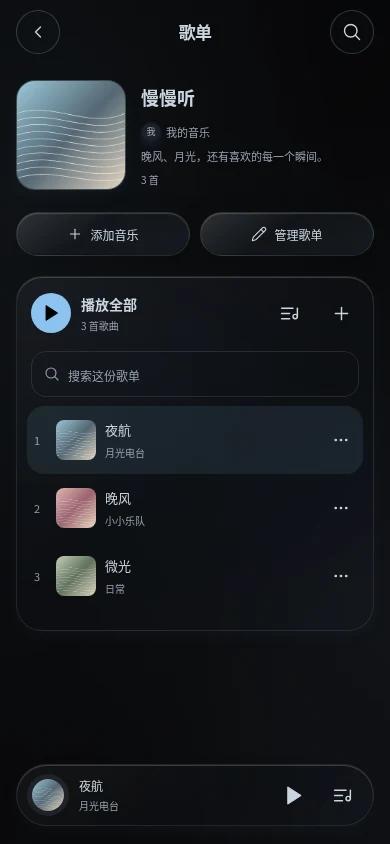
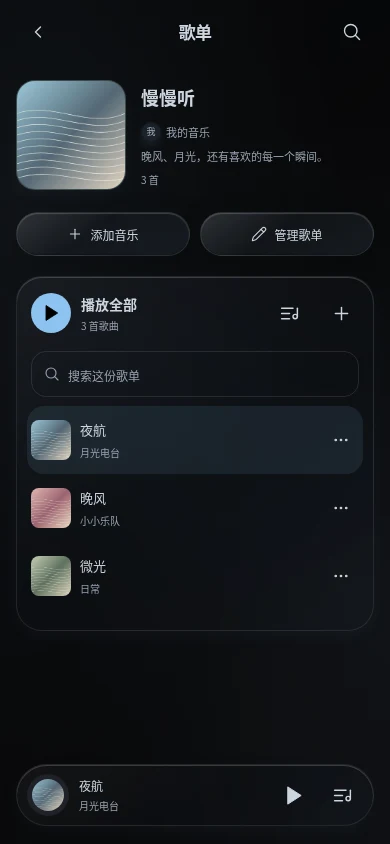
Polish music header transitions and simplify song list labels

Changed region(s): [[0.0615, 0.4929, 0.3692, 0.7085]]

diff --git a/src/apps/music/style.css b/src/apps/music/style.css
@@ -3,14 +3,14 @@
 .music-app:has([data-music-screen=player]){padding-bottom:18px}
 .music-app,.music-sheet{--music-fill:color-mix(in srgb,rgb(var(--glass-tint) / calc(.18 * var(--glass-soften))),rgb(var(--glass-tint)) calc(var(--glass-solid) * 100%));--music-vinyl:#202127}
 .music-header{display:flex;align-items:center;justify-content:space-between;gap:12px;min-height:64px;padding:calc(8px + env(safe-area-inset-top)) 0 8px}
-.music-header h1{font:550 17px/1.3 var(--font-ui);text-align:center;min-width:0}.music-header>button{display:grid;place-items:center;width:44px;height:44px;flex-shrink:0;border-radius:50%;border:1px solid var(--line);background:var(--music-fill);backdrop-filter:blur(var(--glass-blur));-webkit-backdrop-filter:blur(var(--glass-blur))}.music-header svg{width:20px;height:20px}
+.music-header h1{font:550 17px/1.3 var(--font-ui);text-align:center;min-width:0}.music-header>button{display:grid;place-items:center;width:44px;height:44px;flex-shrink:0;border-radius:12px;border:0;background:none;box-shadow:none}.music-header svg{width:20px;height:20px}.music-back svg{transform:rotate(0deg);transition:transform 280ms cubic-bezier(.22,.7,.2,1);transform-origin:center}.music-back.is-player svg{transform:rotate(-90deg)}
 .music-together{padding:18px 18px 16px;text-align:center}
 .music-together-label{display:flex;align-items:center;justify-content:center;gap:7px;font-size:11px;letter-spacing:.12em;color:var(--muted)}.music-together-label svg{width:15px;height:15px}
 .music-companions{display:flex;justify-content:center;align-items:center;gap:24px;margin:17px 0 14px}.music-companions .avatar{width:56px;height:56px;border-width:1px}.music-companions .avatar>span{font-size:22px}
 .music-equalizer{display:flex;align-items:center;gap:4px;height:30px;min-width:40px}.music-equalizer i{display:block;width:3px;height:var(--bar-height);background:var(--accent);border-radius:3px;transform:scaleY(.6)}.music-equalizer.is-playing i{animation:music-equalizer 900ms ease-in-out infinite alternate}.music-equalizer i:nth-child(2n){animation-delay:-.4s}.music-equalizer i:nth-child(3n){animation-delay:-.7s}
 .music-together-song{display:flex;flex-direction:column;align-items:center;justify-content:center;gap:6px;min-height:54px;width:100%;padding:4px;border-radius:16px}.music-together-song strong{font-size:15px;font-weight:500;line-height:1.6;overflow-wrap:anywhere}.music-together-song>span{font-size:11px;line-height:1.6;color:var(--muted)}
 .music-import-link{display:inline-flex;align-items:center;gap:5px;min-height:44px;padding:0 10px;border-radius:16px;font-size:11px;color:var(--muted)}.music-import-link svg{width:14px;height:14px}.music-together-progress{height:2px;margin-top:8px;border-radius:2px;background:rgb(var(--tint) / .18);overflow:hidden}.music-together-progress>span{display:block;height:100%;background:var(--accent)}
-.music-section-heading{display:flex;align-items:center;gap:10px;margin:16px 4px 10px;min-height:44px}.music-section-heading h2{font:500 26px/1.2 var(--font-en);margin-right:auto}.music-section-heading>span{font-size:11px;color:var(--muted)}.music-section-heading>button{width:44px;height:44px;display:grid;place-items:center;border-radius:14px}
+.music-section-heading{display:flex;align-items:center;gap:10px;margin:16px 4px 10px;min-height:44px}.music-section-heading h2{font:500 26px/1.2 var(--font-en);margin-right:auto}.music-section-heading>button{width:44px;height:44px;display:grid;place-items:center;border-radius:14px}
 .music-playlist-grid{display:grid;grid-template-columns:repeat(2,minmax(0,1fr));gap:18px 14px}.music-playlist-card{min-width:0}.music-cover-wrap{position:relative}.music-cover-hit{display:block;padding:0;width:100%;border-radius:22px}.music-app .music-cover-art.app-panel{display:grid;place-items:center;width:100%;aspect-ratio:1;border-radius:22px;overflow:hidden;background:color-mix(in srgb,color-mix(in srgb,var(--cover-tint) 76%,var(--solid)) calc(72% * var(--glass-soften)),rgb(var(--glass-tint)) calc(var(--glass-solid) * 100%));box-shadow:inset 0 1px 0 rgb(255 255 255 / .3),0 5px 16px rgb(0 0 0 / .025)}
 .music-cover-art img,.music-detail-cover img,.music-song-cover img,.music-edit-cover img{width:100%;height:100%;object-fit:cover}.music-art-placeholder{width:100%;height:100%;display:grid;place-items:center}.music-art-placeholder svg{width:30%;height:30%;color:var(--ink)}
 .music-cover-play{position:absolute;bottom:7px;right:7px;display:grid;place-items:center;width:44px;height:44px;border-radius:14px;color:var(--ink)}.music-cover-play svg{width:27px;height:27px;fill:currentColor;stroke-width:1}.music-playlist-card.has-cover .music-cover-play{color:white;filter:drop-shadow(0 1px 3px rgb(0 0 0 / .4))}
@@ -24,7 +24,7 @@
 .music-list-actions{display:flex;gap:10px;margin-bottom:20px}.music-list-actions>button{display:flex;align-items:center;justify-content:center;gap:7px;min-height:44px;padding:8px 16px;border-radius:24px;font-size:12px;flex:1}.music-list-actions svg{width:16px;height:16px}
 .music-app .music-song-panel.app-panel{padding:12px 10px 20px;border-radius:26px}.music-list-toolbar{display:flex;align-items:center;justify-content:space-between;gap:8px}.music-list-toolbar>button{display:flex;align-items:center;justify-content:center;min-width:44px;min-height:44px;flex-shrink:0;border-radius:20px}.music-list-toolbar .music-play-all{gap:10px;justify-content:flex-start;margin-right:auto;padding:4px}.music-play-all>span:first-child{width:40px;height:40px;display:grid;place-items:center;background:var(--accent);color:var(--accent-ink);border-radius:50%}.music-play-all svg{width:20px;height:20px;fill:currentColor;stroke-width:1}.music-play-all>span:last-child{display:flex;flex-direction:column;align-items:flex-start;gap:4px}.music-play-all strong{font-size:14px;font-weight:550}.music-play-all small{font-size:10px;color:var(--muted)}
 .music-search{display:flex;align-items:center;gap:8px;margin:14px 4px 9px;padding:0 12px;border:1px solid var(--hairline);border-radius:15px}.music-search>svg{width:16px;height:16px;color:var(--muted)}.music-search input{border:0;background:none;min-width:0;width:100%;min-height:44px;font:16px/1.4 var(--font-ui);padding:8px 0}.music-search input::placeholder{color:var(--muted);font-size:12px}.music-search:focus-within{outline:1px solid var(--accent);outline-offset:2px}.music-search input:focus-visible{outline:none}
-.music-song-row{display:flex;align-items:center;min-height:68px;min-width:0;border-radius:17px}.music-song-row.is-current{background:rgb(var(--tint) / .1)}.music-song-main{display:flex;align-items:center;gap:9px;text-align:left;min-height:64px;flex:1;min-width:0;padding:6px 0;border-radius:16px}.music-song-number{display:grid;place-items:center;width:20px;flex-shrink:0;font-size:11px;color:var(--muted);font-variant-numeric:lining-nums tabular-nums}.music-song-number svg{width:15px;height:15px}.music-song-cover{width:40px;height:40px;overflow:hidden;border-radius:8px;flex-shrink:0;background:rgb(var(--tint) / .15)}.music-song-cover .music-art-placeholder svg{width:19px;height:19px}.music-song-text{display:flex;flex-direction:column;gap:5px;min-width:0}.music-song-text strong{font-size:13px;font-weight:500;line-height:1.5;white-space:nowrap;overflow:hidden;text-overflow:ellipsis}.music-song-text small{font-size:10px;line-height:1.5;color:var(--muted);white-space:nowrap;overflow:hidden;text-overflow:ellipsis}.music-song-row>button:last-child{display:grid;place-items:center;width:44px;height:44px;flex-shrink:0;border-radius:15px}.music-song-row>button:last-child svg{width:18px;height:18px}
+.music-song-row{display:flex;align-items:center;min-height:68px;min-width:0;border-radius:17px}.music-song-row.is-current{background:rgb(var(--tint) / .1)}.music-song-main{display:flex;align-items:center;gap:9px;text-align:left;min-height:64px;flex:1;min-width:0;padding:6px 4px;border-radius:16px}.music-song-cover{width:40px;height:40px;overflow:hidden;border-radius:8px;flex-shrink:0;background:rgb(var(--tint) / .15)}.music-song-cover .music-art-placeholder svg{width:19px;height:19px}.music-song-text{display:flex;flex-direction:column;gap:5px;min-width:0}.music-song-text strong{font-size:13px;font-weight:500;line-height:1.5;white-space:nowrap;overflow:hidden;text-overflow:ellipsis}.music-song-text small{font-size:10px;line-height:1.5;color:var(--muted);white-space:nowrap;overflow:hidden;text-overflow:ellipsis}.music-song-row>button:last-child{display:grid;place-items:center;width:44px;height:44px;flex-shrink:0;border-radius:15px}.music-song-row>button:last-child svg{width:18px;height:18px}
 .music-list-empty{text-align:center;padding:32px 10px 24px}.music-list-empty>svg{width:28px;height:28px;color:var(--muted);margin-bottom:14px}.music-list-empty h3{font-size:14px;font-weight:500;margin:0 0 8px}.music-list-empty p{font-size:11px;line-height:1.8;color:var(--muted)}.music-list-empty button{min-height:44px;padding:6px 18px;border:1px solid var(--line);border-radius:24px;font-size:12px;margin-top:16px;background:var(--music-fill)}
 .music-player-page{display:flex;flex-direction:column;min-height:calc(100dvh - 94px);padding:0 10px 18px}.music-record-stage{height:clamp(275px,42dvh,360px);position:relative;display:flex;align-items:flex-end;justify-content:center;margin-bottom:32px;flex-shrink:0}
 .music-vinyl{display:grid;place-items:center;position:relative;width:clamp(235px,75vw,310px);aspect-ratio:1;border-radius:50%;padding:0;background:repeating-radial-gradient(circle at center,#24262c 0 1px,#1c1e23 2px 5px);border:1px solid rgb(255 255 255 / .16);box-shadow:inset 0 0 0 9px rgb(255 255 255 / .025),0 10px 28px rgb(0 0 0 / .13);animation:music-record-spin 20s linear infinite;animation-play-state:paused}.music-vinyl:before{content:'';position:absolute;inset:0;border-radius:50%;background:conic-gradient(from 30deg,transparent,rgb(255 255 255 / .08),transparent 32%,rgb(255 255 255 / .045) 56%,transparent 80%);pointer-events:none}.music-vinyl:disabled{opacity:1;cursor:default}.music-vinyl.is-spinning{animation-play-state:running}
@@ -40,9 +40,9 @@
 @keyframes music-equalizer{from{transform:scaleY(.35)}to{transform:scaleY(1)}}
 @media(max-width:350px){.music-companions{gap:16px}.music-together{padding:16px 12px 14px}.music-together-song strong{font-size:14px}.music-playlist-intro{grid-template-columns:90px minmax(0,1fr);gap:12px}.music-playlist-intro h2{font-size:16px}.music-player-page{padding-left:4px;padding-right:4px}.music-vinyl{width:235px}.music-tonearm{right:40px;width:128px;height:170px}.music-player-track h2{font-size:19px}.music-player-controls{gap:2px}.music-player-controls .music-main-toggle{width:58px;height:58px}.music-mini{padding-left:8px}.music-mini-open{gap:7px}.music-mini-open strong{font-size:11px}.music-mini-disc{width:38px;height:38px}.music-header h1{font-size:16px}}
 @media(max-height:700px){.music-record-stage{height:270px;margin-bottom:22px}.music-player-breath{min-height:18px}.music-player-controls{margin-top:18px}}
-@media(prefers-reduced-motion:reduce){.music-vinyl,.music-mini-disc,.music-equalizer.is-playing i{animation:none!important}.music-tonearm{transition:none}}
+@media(prefers-reduced-motion:reduce){.music-vinyl,.music-mini-disc,.music-equalizer.is-playing i{animation:none!important}.music-tonearm,.music-back svg{transition:none}}
 [data-theme=dark] .music-app .music-cover-art.app-panel,[data-theme=dark] .music-app .music-detail-cover.app-panel{background:color-mix(in srgb,color-mix(in srgb,var(--cover-tint) 32%,var(--solid)) calc(60% * var(--glass-soften)),rgb(var(--glass-tint)) calc(var(--glass-solid) * 100%))}
 [data-theme=dark] .music-sheet::backdrop{background:rgb(0 0 0 / .3)}
-@supports not (backdrop-filter:blur(1px)){.music-sheet,.music-mini,.music-header>button{background:var(--solid)}}
+@supports not (backdrop-filter:blur(1px)){.music-sheet,.music-mini{background:var(--solid)}}
 
 .music-storage-note{font-size:10px;line-height:1.8;color:var(--muted);margin:22px 4px 0;text-align:center}

diff --git a/src/apps/music/view.js b/src/apps/music/view.js
@@ -7,7 +7,7 @@ export function musicArtwork(track,symbol='music') {
  return track?.cover?`<img src="${escape(track.cover)}" alt="" loading="lazy">`:`<span class="music-art-placeholder" aria-hidden="true">${icon(symbol)}</span>`;
 }
 function header(title,left='home',right='search') {
- return `<header class="music-header"><button type="button" ${left==='home'?'data-action="home"':'data-music-action="'+left+'"'} aria-label="${left==='home'?'返回主页':left==='leave-player'?'收起播放页':'返回音乐首页'}">${icon(left==='leave-player'?'down':'back')}</button><h1 tabindex="-1">${escape(title)}</h1>${action(right,right==='search'?'search':right==='edit-track'?'more':'plus',right==='search'?'搜索本机歌曲':right==='edit-track'?'歌曲信息':'添加音乐')}</header>`;
+ return `<header class="music-header"><button type="button" class="music-back ${left==='leave-player'?'is-player':''}" ${left==='home'?'data-action="home"':'data-music-action="'+left+'"'} aria-label="${left==='home'?'返回主页':left==='leave-player'?'收起播放页':'返回音乐首页'}">${icon('back')}</button><h1 tabindex="-1" ${title==='music'?'lang="en"':''}>${escape(title)}</h1>${action(right,right==='search'?'search':right==='edit-track'?'more':'plus',right==='search'?'搜索本机歌曲':right==='edit-track'?'歌曲信息':'添加音乐')}</header>`;
 }
 function card(collection) {
  const artwork=collection.cover||collection.tracks.find(t=>t.cover)?.cover;
@@ -19,10 +19,10 @@ function mini(state,ui) {
 }
 function home(state,ui,collections) {
  const track=current(state);
- return `${header('音乐')}<section class="music-together app-panel glass"><div class="music-together-label">${icon('headphones')}<span>一起听</span></div><div class="music-companions">${avatar(state,'user')}<span class="music-equalizer ${ui.playing?'is-playing':''}" aria-hidden="true">${[12,24,16,29,10].map(h=>`<i style="--bar-height:${h}px"></i>`).join('')}</span>${avatar(state,'ai')}</div><button class="music-together-song" data-music-action="player"><strong>${escape(track?.title||'让喜欢的旋律，陪着日常。')}</strong><span>${escape(track?.artist||'你和 '+state.persona.name+' 的小小唱片架')}</span></button><button class="music-import-link" data-music-action="import">${icon('plus')}添加本机音乐</button><div class="music-together-progress" aria-hidden="true"><span data-music-progress-line style="width:${ui.duration?ui.time/ui.duration*100:0}%"></span></div></section><div class="music-section-heading"><h2 lang="en">Playlists</h2><span>${collections.length} 个歌单</span>${action('new-playlist','plus','新建歌单')}</div><div class="music-playlist-grid">${collections.map(card).join('')}<button class="music-new-card" data-music-action="new-playlist">${icon('plus')}<span>新建歌单</span></button></div><p class="music-storage-note">音乐保存在本机；换设备恢复歌单后，需重新选择文件。</p>${mini(state,ui)}`;
+ return `${header('music')}<section class="music-together app-panel glass"><div class="music-together-label">${icon('headphones')}<span>一起听</span></div><div class="music-companions">${avatar(state,'user')}<span class="music-equalizer ${ui.playing?'is-playing':''}" aria-hidden="true">${[12,24,16,29,10].map(h=>`<i style="--bar-height:${h}px"></i>`).join('')}</span>${avatar(state,'ai')}</div><button class="music-together-song" data-music-action="player"><strong>${escape(track?.title||'让喜欢的旋律，陪着日常。')}</strong><span>${escape(track?.artist||'你和 '+state.persona.name+' 的小小唱片架')}</span></button><button class="music-import-link" data-music-action="import">${icon('plus')}添加本机音乐</button><div class="music-together-progress" aria-hidden="true"><span data-music-progress-line style="width:${ui.duration?ui.time/ui.duration*100:0}%"></span></div></section><div class="music-section-heading"><h2 lang="en">Playlists</h2>${action('new-playlist','plus','新建歌单')}</div><div class="music-playlist-grid">${collections.map(card).join('')}<button class="music-new-card" data-music-action="new-playlist">${icon('plus')}<span>新建歌单</span></button></div><p class="music-storage-note">音乐保存在本机；换设备恢复歌单后，需重新选择文件。</p>${mini(state,ui)}`;
 }
 export function musicSongRows(tracks,ui,music,queue=false) {
- return tracks.map((track,i)=>`<article class="music-song-row ${track.id===music.currentId?'is-current':''}"><button class="music-song-main" data-music-track="${escape(track.id)}" ${queue?'data-music-from-queue':''} aria-label="播放 ${escape(track.title)}"><span class="music-song-number">${track.id===music.currentId&&ui.playing?icon('headphones'):i+1}</span><span class="music-song-cover">${musicArtwork(track)}</span><span class="music-song-text"><strong>${escape(track.title)}</strong><small>${escape(track.artist)}</small></span></button><button data-music-track-menu="${escape(track.id)}" aria-label="${escape(track.title)}的歌曲信息">${icon('more')}</button></article>`).join('');
+ return tracks.map(track=>`<article class="music-song-row ${track.id===music.currentId?'is-current':''}"><button class="music-song-main" data-music-track="${escape(track.id)}" ${queue?'data-music-from-queue':''} aria-label="播放 ${escape(track.title)}"><span class="music-song-cover">${musicArtwork(track)}</span><span class="music-song-text"><strong>${escape(track.title)}</strong><small>${escape(track.artist)}</small></span></button><button data-music-track-menu="${escape(track.id)}" aria-label="${escape(track.title)}的歌曲信息">${icon('more')}</button></article>`).join('');
 }
 function playlist(state,ui,collection,music) {
  const query=(ui.search||'').toLocaleLowerCase(),tracks=collection.tracks.filter(t=>(t.title+' '+t.artist).toLocaleLowerCase().includes(query));

diff --git a/src/apps/music/controller.js b/src/apps/music/controller.js
@@ -12,7 +12,25 @@ export function createMusicApp({app,getState,setState,persist,notify,compressIma
  function refresh(focus,top=false) {
   const scope=app.querySelector('.music-app');if(!scope)return;
   const scroller=app.querySelector('.page-content'),scroll=scroller.scrollTop;
-  scope.innerHTML=music(getState(),ui);scroller.scrollTop=top?0:scroll;
+  const template=document.createElement('template');template.innerHTML=music(getState(),ui);
+  const next=template.content.firstElementChild,current=scope.querySelector('.music-app-inner');
+  if(current){
+   // Keep the header and chevron mounted so an interrupted turn continues smoothly.
+   const header=current.querySelector('.music-header'),nextHeader=next.querySelector('.music-header');
+   const buttons=header.querySelectorAll('button'),nextButtons=nextHeader.querySelectorAll('button');
+   buttons.forEach((button,index)=>{
+    const replacement=nextButtons[index];
+    for(const attribute of [...button.attributes])if(!replacement.hasAttribute(attribute.name))button.removeAttribute(attribute.name);
+    for(const attribute of replacement.attributes)button.setAttribute(attribute.name,attribute.value);
+    if(index!==0)button.replaceChildren(...replacement.childNodes);
+   });
+   const title=header.querySelector('h1'),nextTitle=nextHeader.querySelector('h1');title.textContent=nextTitle.textContent;
+   if(nextTitle.hasAttribute('lang'))title.setAttribute('lang',nextTitle.lang);else title.removeAttribute('lang');
+   current.dataset.musicScreen=next.dataset.musicScreen;
+   for(const child of [...current.children])if(child!==header)child.remove();
+   current.append(...[...next.children].filter(child=>child!==nextHeader));
+  }else scope.replaceChildren(next);
+  scroller.scrollTop=top?0:scroll;
   if(focus)scope.querySelector(focus)?.focus({preventScroll:true});
   app.querySelectorAll('[data-music-action=import]').forEach(el=>el.disabled=ui.busy);
  }
@@ -116,7 +134,13 @@ export function createMusicApp({app,getState,setState,persist,notify,compressIma
    case 'delete-track':if(confirm('删除这首本机音乐？它会从曲库和歌单中移除。')){const id=sheetItem;if(commit(state=>{const m=state.music;m.tracks=m.tracks.filter(t=>t.id!==id);m.queue=m.queue.filter(x=>x!==id);m.playlists.forEach(p=>p.trackIds=p.trackIds.filter(x=>x!==id));if(m.currentId===id)m.currentId='';})){if(loadedId===id)stop();dialog.close();refresh();void musicFile(id,null).catch(error=>notify(error.message));notify('歌曲已删除。');}}break;
   }
  }
- app.addEventListener('click',event=>{if(event.target.closest('.music-app'))handle(event);});
+ app.addEventListener('click',event=>{
+  if(!event.target.closest('.music-app'))return;
+  const button=event.target.closest('button');
+  // A retained button can change its action during navigation; dispatch this click once.
+  if(button&&!button.hasAttribute('data-action'))event.stopImmediatePropagation();
+  handle(event);
+ });
  dialog.addEventListener('click',handle);
  dialog.addEventListener('close',()=>{if(returnFocus?.isConnected)returnFocus.focus({preventScroll:true});});
  app.addEventListener('pointerdown',event=>{if(event.target.name==='music-seek')ui.seeking=true;});

diff --git a/docs/CODEX_HANDOFF.md b/docs/CODEX_HANDOFF.md
@@ -34,6 +34,7 @@
 - App 图标复用长按菜单（打开 App、编辑主页、移除）、拖拽排序/跨页、Alt+方向键和入口恢复。移除只设置 home.hiddenApps，不删除配置或内容；满页阻止移动/恢复并提示腾出空间，取消拖动不保存；拖拽可经过已满页面继续翻页，未找到空位时回到图标原页。1×1 与大组件混排时自动避开碎片空位，保持 4×6 网格。
 - 外观 App 已完整接入原有主题、夜间模式、透明度、模糊、壁纸和两种头像设置；系统设置移除外观分组，保留陪伴者、模型、插件、储存和用量。世界书目前为空状态首页；图库展示本机壁纸、头像和聊天图片；预设展示当前角色/模型并链接原有配置；档案展示现有双方资料与数量。联网音乐曲库/同步一起听、相册管理、多套预设、世界书编辑/上下文尚未实现，不要把首页展示当成这些服务已接通。
 - 音乐 App 已按手机音乐 App 的布局重构：首页「一起听」头像卡 + 双列方形歌单，封面右下角为播放三角；歌单详情包含封面、名字/介绍、播放全部、搜索和歌曲行；底部固定小播放器可打开黑胶详情。播放页有唱臂、唱片、封面、收藏、进度条、上一首/下一首、循环/随机和队列抽屉。保留全局壁纸，不添加参考 HTML 的装饰背景圆，玻璃表面沿用统一透明度/模糊。旋转只跟随真实播放，暂停时停转，减少动态效果时不旋转。
+- 音乐首页顶部标题为小写 music；页头返回、搜索和更多按钮为无填充/无边框图标，保留 44px 点击区域与键盘焦点。音乐内部更新保留页头、返回按钮及 SVG，左箭头与下箭头使用同一 SVG 旋转 280ms，快速反向切换连续过渡；减少动态效果时直接切换。保留页头后，音乐自己的按钮点击只由音乐控制器处理一次，避免变更后的返回动作再次触发全局导航。歌曲列表/队列不展示序号和当前播放耳机标记，保留当前歌曲的背景高亮；首页 Playlists 右侧不展示歌单总数。
 - 音乐支持用户添加本机文件（单首最多 80MB、曲库最多 500 首，支持程度取决于浏览器音频解码）、新建/管理/删除歌单、收藏歌曲、编辑曲名/歌手/封面、删除歌曲及补回缺失文件。默认曲库为空，仅提供我喜欢的音乐/全部音乐/最近播放三份真实集合，不导入参考稿的假歌名、假数量、歌词或一起听时长。头像陪伴区是界面设计，尚无多人或 AI 音频同步。
 - `music` 状态保存歌曲元数据、歌单、当前歌曲 ID、队列和循环模式，沿用同源 localStorage 与 v1/v2 JSON 备份兼容；旧备份缺字段时补空曲库。实际音频独立保存在 IndexedDB `chenxin.music.files.v1` 的 files 表，不放入 localStorage 或 JSON 备份。刷新不自动播放；同浏览器原文件仍可播放，换设备恢复歌单后可用「重新选择音乐文件」补回原 ID，保留曲名/封面/歌单。导入完整备份时取消播放和未完成的旧播放请求，避免播放已替换的曲库。
 - 主页顶部原来的品牌/「我们的主页」标题区域已删除。
@@ -149,3 +150,5 @@ npm test
 最新音乐预览：`docs/preview-app-music.webp` 为默认空曲库；`docs/preview-music-{home,playlist,player}.webp` 和对应 `-dark.webp` 展示首页、歌单详情与黑胶页。填充预览使用临时测试音频/自制封面，曲库不预置这些内容，也不复制用户截图图片。
 
 音乐改版验证：语法检查和 33 项 Node 测试通过；Chromium 在 320×640、390×844、844×390 下检查三页布局、导入/封面/收藏/歌单/搜索/队列、播放/暂停/进度/切歌、本机音频刷新后播放、缺失文件补回、JSON 备份恢复与原会话/日记/便签/布局保留。触屏浏览器模拟另外验证自然播放结束的单曲循环/随机切歌、保存失败回滚与草稿保留、歌曲删除时文件/歌单/队列清理、删除歌单保留歌曲。昼夜模式及玻璃透明度/模糊端点已检查；未用真实 iOS 设备验证音频格式兼容性。
+
+音乐页头微调验证：33 项 Node 测试与语法检查通过；Chromium 在 320px/390px 下检查昼夜无填充按钮、真实播放行无序号/耳机、music 标题、无歌单总数、搜索焦点、返回与收起导航、连续快速反向切换时页头/返回 SVG 保持同一节点、减少动态效果及切换期间数据不变。音乐昼夜预览已更新。
